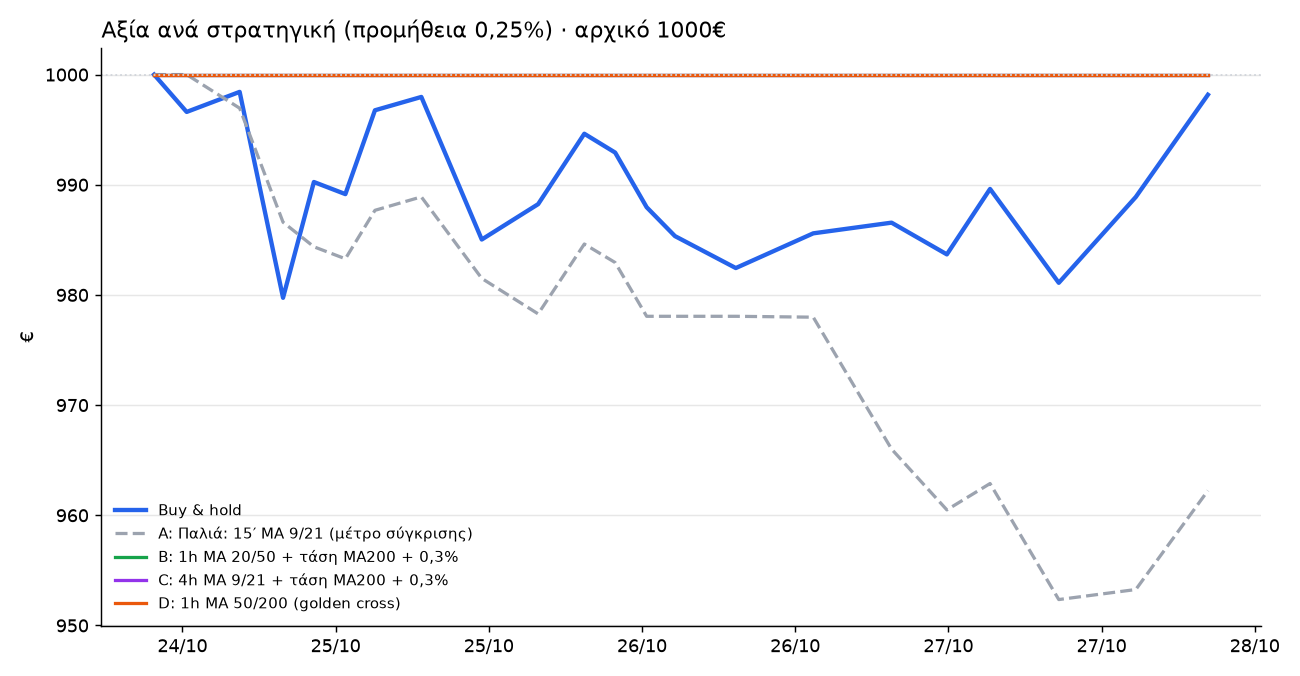
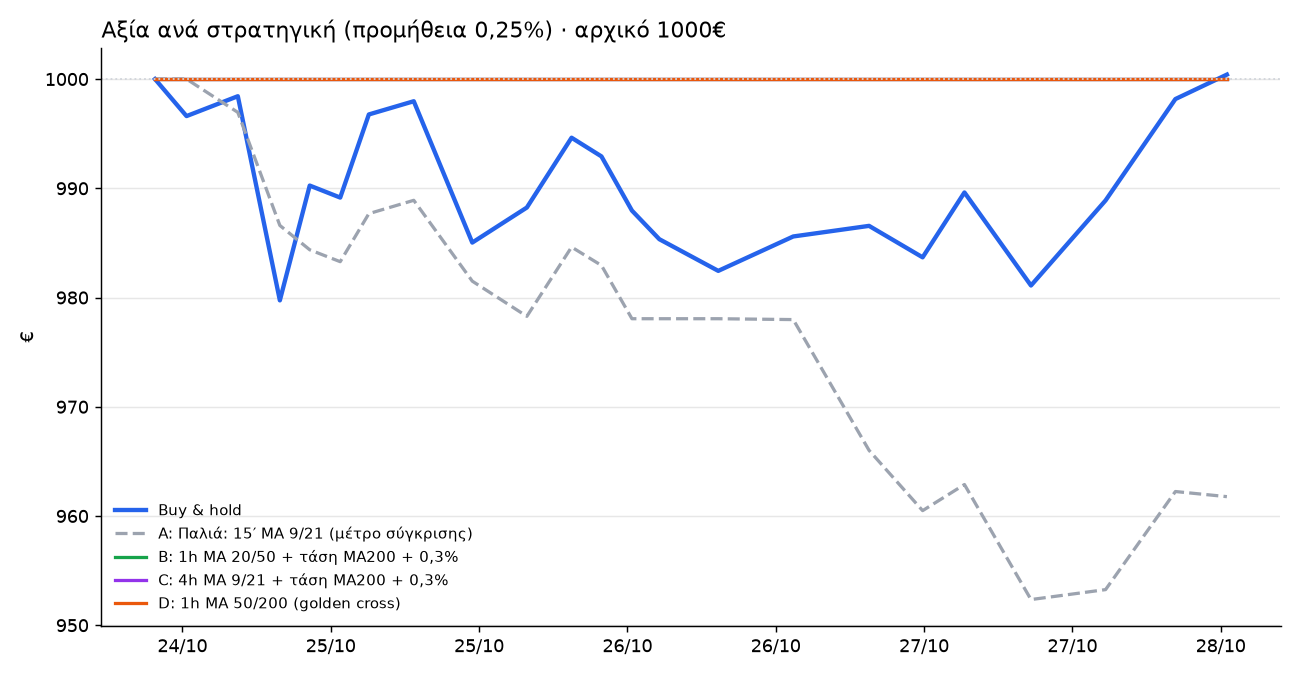
paper run 2026-10-27_22:30

diff --git a/RESULTS.md b/RESULTS.md
@@ -1,18 +1,18 @@
 # 📈 Paper trading: αποτελέσματα
 
-**Ενημέρωση:** 27/10/2026 20:20 · **Έναρξη:** 2026-10-24 09:47 · **Κεφάλαιο:** 1000€ ψεύτικα ανά στρατηγική (μισά BTC, μισά ETH)
+**Ενημέρωση:** 28/10/2026 00:30 · **Έναρξη:** 2026-10-24 09:47 · **Κεφάλαιο:** 1000€ ψεύτικα ανά στρατηγική (μισά BTC, μισά ETH)
 
-> Buy & hold: **998.17€ (-0.18%)** · Καλύτερη στρατηγική τώρα: **B** με 1000.00€ (+0.00%), πάνω από το buy & hold
+> Buy & hold: **1000.41€ (+0.04%)** · Καλύτερη στρατηγική τώρα: **B** με 1000.00€ (+0.00%), κάτω από το buy & hold
 
 ![Γράφημα](results_chart.png)
 
 | | Στρατηγική | Αξία @0,25% | Αξία @0,09% | Trades | Κερδοφόρα | Προμήθειες @0,25% | Max DD | Θέση BTC / ETH |
 |---|---|---:|---:|---:|---:|---:|---:|---|
-| **A** | Παλιά: 15′ MA 9/21 (μέτρο σύγκρισης) | 962.24€ (-3.78%) | 985.63€ (-1.44%) | 30 | 0/14 (0%) | 36.50€ | -4.8% | 🟢 μέσα / 🟢 μέσα |
+| **A** | Παλιά: 15′ MA 9/21 (μέτρο σύγκρισης) | 961.77€ (-3.82%) | 985.95€ (-1.40%) | 31 | 1/15 (7%) | 37.72€ | -4.8% | 🟢 μέσα / ⚪ έξω |
 | **B** | 🏆 1h MA 20/50 + τάση MA200 + 0,3% | 1000.00€ (+0.00%) | 1000.00€ (+0.00%) | 0 | - | 0.00€ | 0.0% | ⚪ έξω / ⚪ έξω |
 | **C** | 4h MA 9/21 + τάση MA200 + 0,3% | 1000.00€ (+0.00%) | 1000.00€ (+0.00%) | 0 | - | 0.00€ | 0.0% | ⚪ έξω / ⚪ έξω |
 | **D** | 1h MA 50/200 (golden cross) | 1000.00€ (+0.00%) | 1000.00€ (+0.00%) | 0 | - | 0.00€ | 0.0% | ⚪ έξω / ⚪ έξω |
-| | Buy & hold | 998.17€ (-0.18%) | | 0 | | 0€ | -2.0% | 🟢 / 🟢 |
+| | Buy & hold | 1000.41€ (+0.04%) | | 0 | | 0€ | -2.0% | 🟢 / 🟢 |
 
 **Πώς διαβάζεται:** «@0,25%» = με προμήθεια Kraken, «@0,09%» = με προμήθεια Revolut X (taker). Τα σήματα είναι ίδια, αλλάζει μόνο το κόστος. Max DD = μεγαλύτερη πτώση από κορυφή.
 
